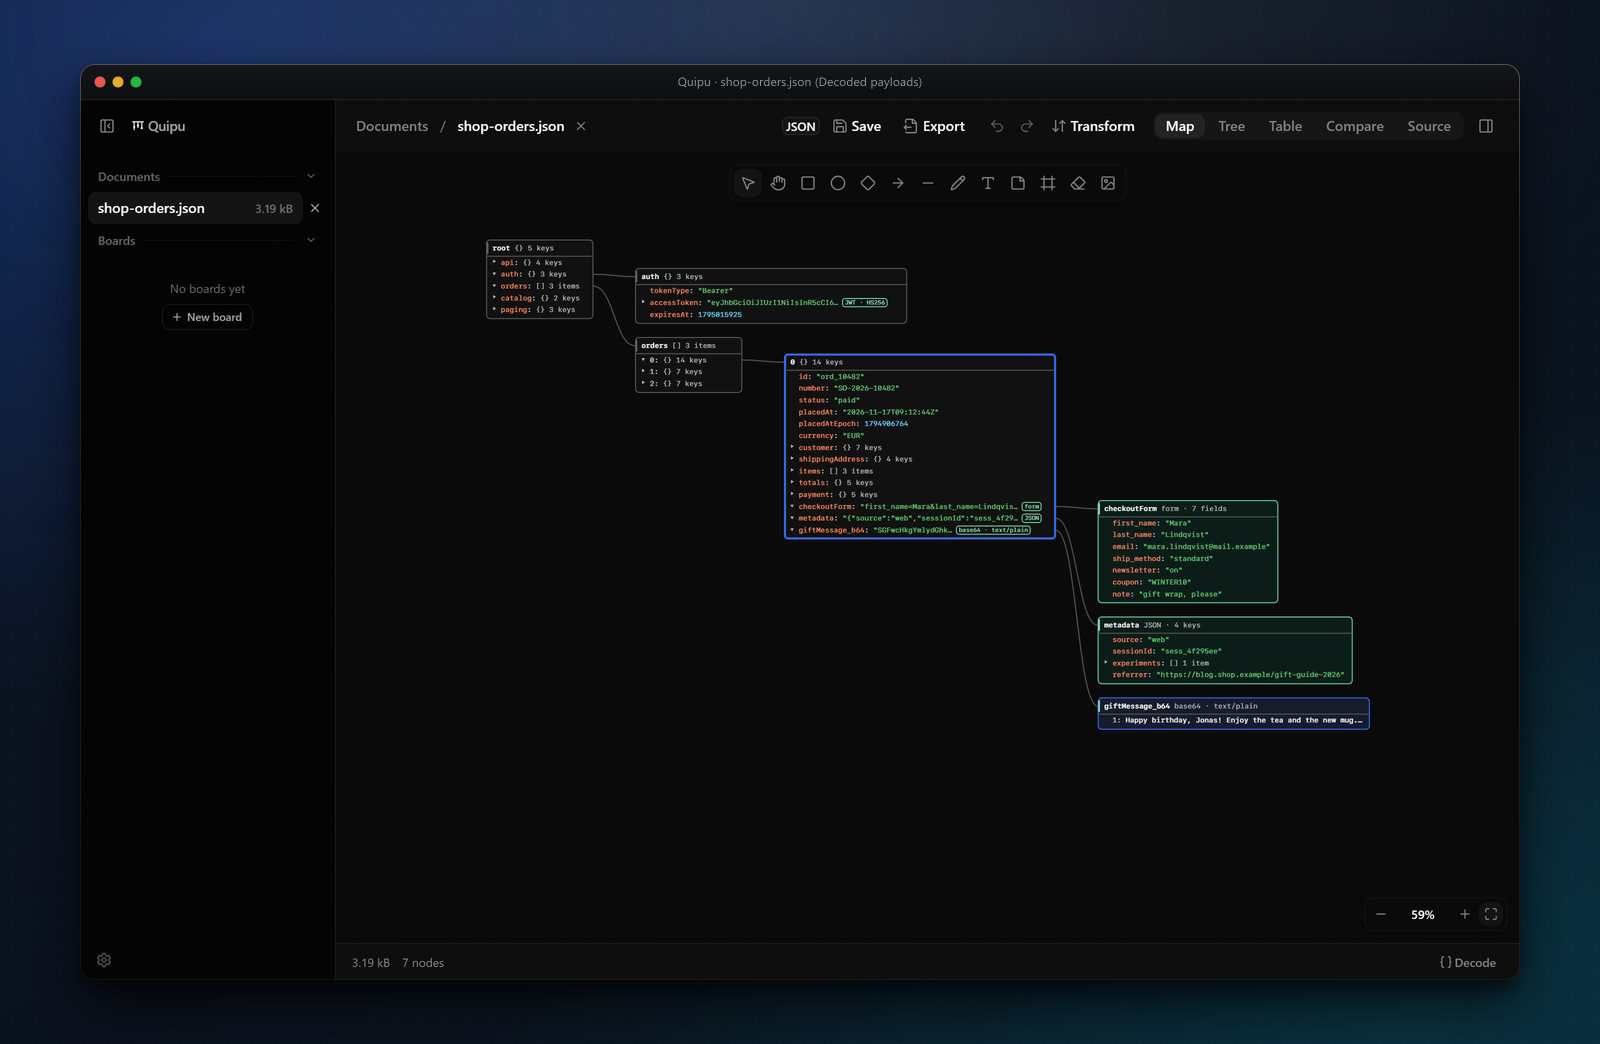
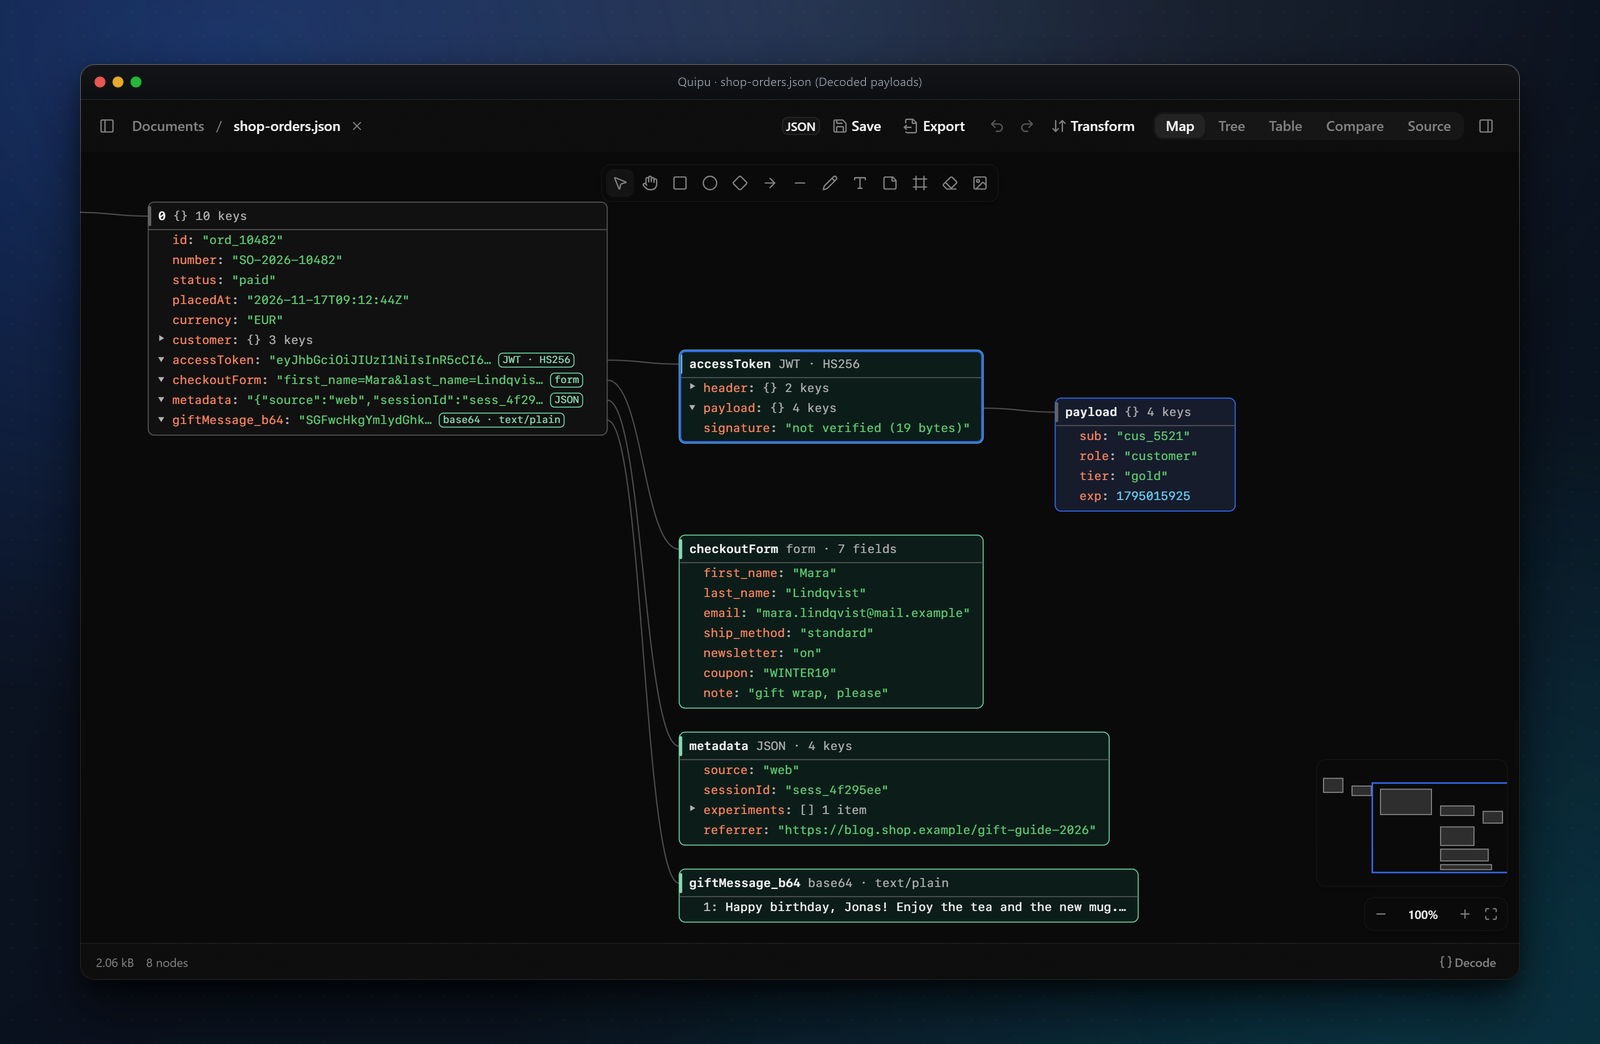
docs: recapture map, decode, and board screenshots at 100% zoom

diff --git a/README.md b/README.md
@@ -38,7 +38,7 @@ Compare matches requests across two HAR captures by method, URL, and resource ty
 
 You can sketch request flows on standalone boards or draw shapes, notes, and node-bound arrows directly over a map, then export the map to PNG or SVG up to 8192 px. Quipu ships with Graphite, six named palettes, a 7:1 High Contrast theme, an OKLCH theme editor, and VS Code theme import.
 
-![Map annotations with sticky notes, frame, and arrows bound to HAR request cards](docs/images/board.png)
+![HAR request cards annotated on the map with a frame, shapes, freehand ink, sticky note, and arrows](docs/images/board.png)
 
 ## How it works
 
